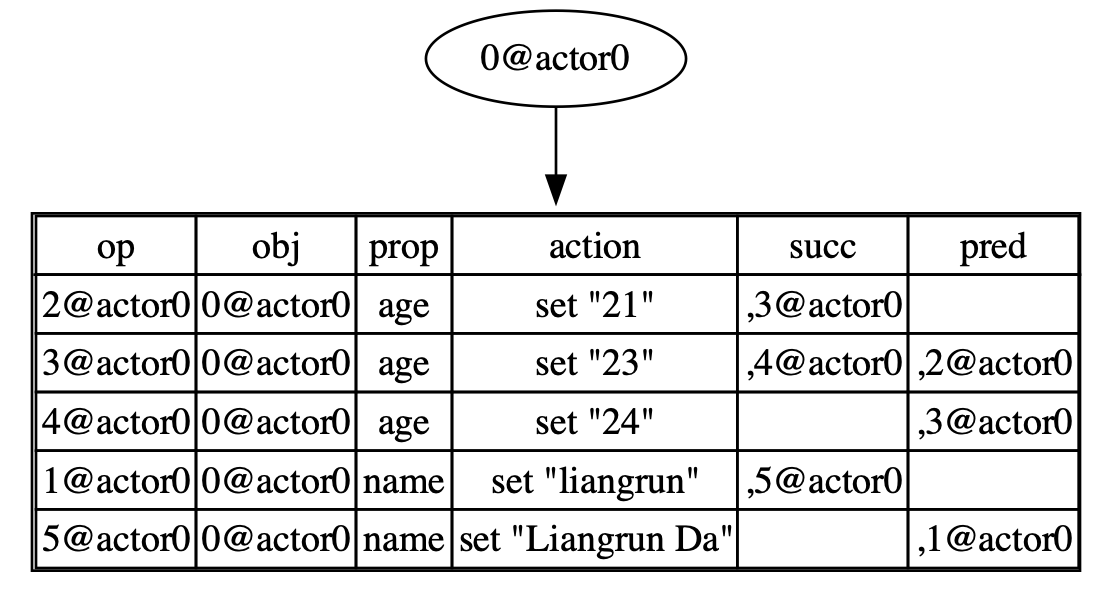
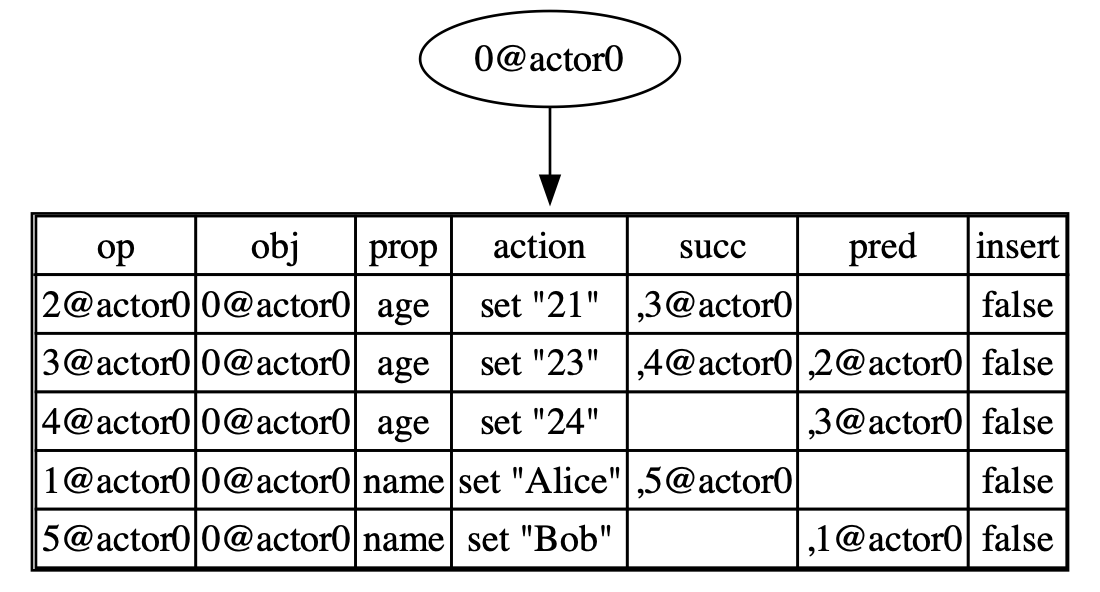
fix known issues on internal documents

diff --git a/docs/how-it-works/storage.md b/docs/how-it-works/storage.md
@@ -11,12 +11,12 @@ As the number of operations increases, maintaining the Hash DAG can become cumbe
 ```rust
 let mut doc = Automerge::new();
 let mut tx = doc.transaction();
-tx.put(ROOT, "name", "liangrun")?;
+tx.put(ROOT, "name", "Alice")?;
 tx.put(ROOT, "age", "21")?;
 tx.commit();
 ```
 
-In this example, `put(root, "name", "liangrun")` and `put(root, "age", 21)` belong to the same transaction. When committing, we combine all operations to create a change. A change is the minimum unit of applying, which implies that all the operations in a change are either fully applied or not applied at all.
+In this example, `put(root, "name", "Alice")` and `put(root, "age", 21)` belong to the same transaction. When committing, we combine all operations to create a change. A change is the minimum unit of applying, which implies that all the operations in a change are either fully applied or not applied at all.
 
 By doing so, we can manage the dependencies between changes rather than dependencies between operations. In Automerge, we use a `struct ChangeGraph` to maintain this Hash DAG:
 
@@ -41,8 +41,7 @@ Before applying change D, it is necessary to ensure that changes B and C have al
 
 Moreover, using changes not only avoids the need to maintain a large number of dependencies but also enables us to compress operations efficiently. These operations can be viewed as a table, where each operation represents a row in the table. By utilizing columnar encoding, we can encode this table and greatly reduce the space required to store it.
 
-Moving forward, we will explore the process of encoding these operations into a compact format.
-
+Moving forward, we will explore the process of encoding these operations into a compact format. Before proceeding, you have the option to familiarize yourself with the [specification of Automerge binary encoding](https://automerge.org/docs/how-it-works/binary-format/). However, it is also possible to skip the specification for now, as we will provide essential information on encoding a basic change in the following sections. In case you encounter any difficulties, you can refer back to the specification to resolve them.
 
 
 ## Change encoding
@@ -210,7 +209,7 @@ We use an example to illustrate how a change is encoded. Suppose we have the fol
 ```rust
 let mut doc = Automerge::new();
 let mut tx = doc.transaction();
-tx.put(ROOT, "name", "Liangrun")?;
+tx.put(ROOT, "name", "Alice")?;
 tx.put(ROOT, "age", 21)?;
 tx.commit();
 ```
@@ -219,25 +218,26 @@ It will be encoded to the byte sequence like this:
 
 ```
[2 lines of base64/hex data omitted]
 ```
 
 We can deconstruct it into different parts:
 
 ```c
 0x856f4a83 // magic
-0x264ba506 // checksum
+0xfc117446 // checksum
 0x01 // chuck type
-0x40 // chunk length
+0x3c // chunk length
 0x00 // dependencies
 0x10 // actor length
-0x03ebab6d29df47f39c5ea7d4cd9d6e03 //actor 
+0xba92a37960334606aa47606579716f20 //actor 
 0x01 // sequence number
 0x01 // start op
 0x00 // time
 0x00 // message length
 0x00 // other actors
-0x06150a34014202560457097002 // operation column metadata
-0x7e046e616d65036167650202017e8601144c69616e6772756e150200 // operation columns
+0x06150a34014202560357067002 // operation column metadata
+0x7e046e616d65036167650202017e5614416c696365150200 // operation columns
 ```
 
 #### Change metadata
@@ -251,7 +251,7 @@ The magic is defined as `[0x85, 0x6f, 0x4a, 0x83]`.
 The checksum is calculated by computing the SHA256 of all subsequent parts and taking the first 4 bytes.
 
 ```
-SHA256(0140001003ebab6d29df47f39c5ea7d4cd9d6e03010100000006150a340142025604570970027e046e616d65036167650202017e8601144c69616e6772756e150200) = 264ba506493afaa055db12eb14f78d77ff7d939e0dc621e330d75b91e9fef05f
+SHA256(013c0010ba92a37960334606aa47606579716f20010100000006150a340142025603570670027e046e616d65036167650202017e5614416c696365150200) = fc117446c2701317ab462d610d17981fc12ac4cae6e242515d401db831a6e6d4
 ```
 
 - chunk type
@@ -260,7 +260,7 @@ The chunk type of a change is always equal to 0x01.
 
 - chunk length
 
-The chunk length indicates how many bytes follow and is of type uLEB. In this case, `0x40` is equal to `0b01000000`, so the length of the following bytes is `0b100 0000`, which is 64 bytes.
+The chunk length indicates how many bytes follow and is of type uLEB. In this case, `0x3c` is equal to `0b00111100`, so the length of the following bytes is `0b011 1100`, which is 60 bytes.
 
 - dependencies
 
@@ -272,7 +272,7 @@ This is in uLEB format, which indicates the length of the actor in bytes. `0x10`
 
 - actor
 
-`03ebab6d29df47f39c5ea7d4cd9d6e03` is the actor ID.
+`0xba92a37960334606aa47606579716f20` is the actor ID.
 
 - sequence number
 
@@ -303,18 +303,18 @@ Following the uLEB `0x06` = 6 indicating the number of columns, there are 6 pair
 | 0x15 = 21, key string         | 0x0a          |
 | 0x34 = 52, insert             | 0x01          |
 | 0x42 = 66, action             | 0x02          |
-| 0x56 = 86, value metadata     | 0x04          |
-| 0x57 = 87, value              | 0x09          |
+| 0x56 = 86, value metadata     | 0x03          |
+| 0x57 = 87, value              | 0x06          |
 | 0x70 = 112, predecessor group | 0x02          |
 
-The sum of `0x0a + 0x01 + 0x02 + 0x04 + 0x09 + 0x02` is 28, so the next 28 bytes are operation columns.
+The sum of `0x0a + 0x01 + 0x02 + 0x03 + 0x06 + 0x02` is 24, so the next 24 bytes are operation columns.
 
 #### Operation columns
 
 - key string：
 
 ```
-7e046e616d6503616765
+7e046e616d650361676
 ```
 
 In Automerge, `key string` is encoded using Run Length Encoding (RLE).
@@ -352,19 +352,19 @@ RLE is used for the action column. Here, `0x02` = 2, indicating that the value i
 
 The value part is `0x01`. Repeating it twice gives us `[0x01, 0x01]`.
 
-According to the Automerge specification[<sup>3</sup>](#refer-anchor-3), `0x01` as the action value means "set". Therefore, the action column is `[set, set]`.
+According to the Automerge specification, `0x01` as the action value means "set". Therefore, the action column is `[set, set]`.
 
 
 
 - value metadata
 
 ```
-7e860114
+7e5614
 ```
 
 The value metadata is encoded using the `Value Encoding`.
 
-`0x8601 = 1000 0110 0000 0001` can be interpreted as `0b 000 0001 000 0110`, which means the first type is `0b110` (String), and the length is `0b1000 = 8 bytes`.
+`0x56 = 0101 0110` can be interpreted as `0b 101 0110`, which means the first type is `0b0110` (String), and the length is `0b101 = 5 bytes`.
 
 The following `0x14 = 0b0001 0100`,  indicates that the second type is `0b100` (Signed Integer), and the length is `0b1 = 1 byte`.
 
@@ -375,12 +375,12 @@ So the entire value metadata column can be interpreted as `[<String, 8>, <Signed
 - value
 
 ```
-4c69616e6772756e15
+416c69636515
 ```
 
-`0x4c69616e6772756e` is converted to the UTF-8 string "Liangrun". And `0x15 = 21`.
+`0x416c696365` is converted to the UTF-8 string "Alice". And `0x15 = 21`.
 
-Therefore, the value column can be interpreted as `["Liangrun", 21]`.
+Therefore, the value column can be interpreted as `["Alice", 21]`.
 
 
 
@@ -391,7 +391,6 @@ Therefore, the value column can be interpreted as `["Liangrun", 21]`.
 ```
 
 The first column of the predecessor group is encoded using RLE, which is equivalent to [0x00, 0x00] here. This means that there are no predecessors for these two operations. Therefore, the predecessor group is interpreted as `[[], []]`.
-
 
 
 ## Document encoding
@@ -428,7 +427,7 @@ We use an example to illustrate how a document is encoded. Suppose we have the f
 ```rust
 let mut doc = Automerge::new();
 let mut tx1 = doc.transaction();
-tx1.put(ROOT, "name", "Liangrun")?;
+tx1.put(ROOT, "name", "Bob")?;
 tx1.put(ROOT, "age", 21)?;
 tx1.commit();
 
@@ -442,21 +441,22 @@ It will be encoded to the byte sequence like this:
 
 ```
[2 lines of base64/hex data omitted]
 ```
 
 We can deconstruct it into different parts:
 
 ```c
 0x856f4a83 // magic
-0xe7a6f50e // checksum
+0x4afcae9c // checksum
 0x00 // chunk type
-0x9301 // chunk length
-0x011013336ec1ed354befa60b3e3f05346028 // actors
-0x012f2f0a65b40461263a496749d8bb0b0746c234cbddb092e11473861242638a0c // heads
+0x8d01 // chunk length
+0x011015cb7623f0314fc09773daafcf4138d7 // actors
+0x016cdffc539c7e02a93ab4f9762fc4466b90fc4134c6662382d067f02d9e9418bf // heads
 0x070102030213032302400343025602 // change column metadata
-0x08151121022304340142025605570d8001 // operation column metadata
-0x02020002017e020102007e00017f000207 // change column
-0x7d036167650667656e646572046e616d6503007d02017e0303017d14468601156d616c654c69616e6772756e0300 // operation columns
+0x081511210223043401420256045708800102 // operation column metadata
+0x020002017e020102007e00017f000207 // change column
+0x7d036167650667656e646572046e616d6503007d02017e0303017d144636156d616c65426f620300 // operation columns
 0x01 // heads index
 ```
 
@@ -467,7 +467,7 @@ As most of the fields are similar to change encoding, we will not explain them h
 #### change columns metadata
 
 ```
-070102030213032302400343025602
+0x070102030213032302400343025602
 ```
 
 Following the uLEB `0x07` = 7 indicating the number of columns, there are 7 pairs of <Column Specification, Column Length>:
@@ -489,7 +489,7 @@ Following the uLEB `0x07` = 7 indicating the number of columns, there are 7 pair
 #### operation columns metadata
 
 ```
-08151121022304340142025605570d8001
+0x081511210223043401420256045708800102
 ```
 
 Following the uLEB `0x08` = 8 indicating the number of columns, there are 8 pairs of <Column Specification, Column Length>:
@@ -501,18 +501,18 @@ Following the uLEB `0x08` = 8 indicating the number of columns, there are 8 pair
 | 0x23 = 35, counter            | 0x04          |
 | 0x34 = 52, insert             | 0x01          |
 | 0x42 = 66, action             | 0x02          |
-| 0x56 = 86, value metadata     | 0x05          |
-| 0x57 = 87, value              | 0x0d          |
-| 0x8000 = 128, successor group | 0x02          |
+| 0x56 = 86, value metadata     | 0x04          |
+| 0x57 = 87, value              | 0x08          |
+| 0x8001 = 128, successor group | 0x02          |
 
-0x11 + 0x02 + 0x04 + 0x01 + 0x02 + 0x05 + 0x0d + 0x02 = 46 bytes
+0x11 + 0x02 + 0x04 + 0x01 + 0x02 + 0x04 + 0x08 + 0x02 = 40 bytes
 
 
 
 #### change columns
 
 ```
-02020002017e020102007e00017f000207
+0x020002017e020102007e00017f000207
 ```
 
 - actor
@@ -523,7 +523,7 @@ Following the uLEB `0x08` = 8 indicating the number of columns, there are 8 pair
 
 The actor column uses RLE. First, the length is `0x02`, indicating that the value is repeated twice. Then, the value is `0x00`, indicating that the actor column is [0x00, 0x00].
 
-In this case, 0x00 refers to the first actor in the actors list, which is `011013336ec1ed354befa60b3e3f05346028`.
+In this case, 0x00 refers to the first actor in the actors list, which is `0x011015cb7623f0314fc09773daafcf4138d7`.
 
 - sequence number
 
@@ -574,7 +574,7 @@ Dependencies group can be interpreted as [0x00, 0x01]. As a result, the first ch
 #### operation columns
 
 ```
[2 lines of base64/hex data omitted]
 ```
 
 - key string
@@ -628,7 +628,7 @@ According to the Automerge specification, `0x01` as the action value means "set"
 - value metadata
 
 ```
-7d14468601
+7d144636
 ```
 
 `0x7d` = -3, which means there is no compression used.
@@ -637,21 +637,21 @@ Next is the value part, which consists of several 64-bit uLEBs:
 
 1. `14` = 0001 0100, which means type = 0b100 (Signed integer), length = 0b1 = 1 byte.
 2. `46` = 0100 0110, which means type = 0b110 (String), length = 0b100 = 4 bytes.
-3. `0x8601 = 1000 0110 0000 0001`, which can be interpreted as 0b000 0001 000 0110, which means type = 0b110 (String), length = 0b1000 = 8 bytes.
+3. `36` = 0011 0110, which means type = 0b110 (String), length = 0b11 = 3 bytes.
 
-Therefore, the entire value metadata column can be interpreted as [<Signed Integer, 1>, <String, 4>, <String, 8>].
+Therefore, the entire value metadata column can be interpreted as [<Signed Integer, 1>, <String, 4>, <String, 3>].
 
 - value
 
 ```
-156d616c654c69616e6772756e
+156d616c65426f62
 ```
 
 1. Signed Integer, `0x15` = 21
 2. String, `0x6d616c65` = "male"
-3. String, `0x4c69616e6772756e` = "Liangrun"
+3. String, `0x426f62` = "Bob"
 
-Therefore, the entire value column can be interpreted as [21, "male", "Liangrun"].
+Therefore, the entire value column can be interpreted as [21, "male", "Bob"].
 
 - successor group
 
@@ -670,6 +670,3 @@ So there is no successor for all the operations. Hence the operation group can b
 <div id="refer-anchor-2"></div>
 
 [2]. Kleppmann M, Howard H. Byzantine eventual consistency and the fundamental limits of peer-to-peer databases[J]. arXiv preprint arXiv:2012.00472, 2020.
-<div id="refer-anchor-3"></div>
-
-[3]. A. J. Alex Good, Binary document format, https://automerge.org/automerge-binary-format-spec/.

diff --git a/docs/how-it-works/runtime.md b/docs/how-it-works/runtime.md
@@ -1,14 +1,5 @@
 # Runtime
 
-## Overview
-
-The data model of Automerge is a JSON document consisting of nested Map and List objects. The APIs that Automerge supports is a superset of plain JSON object in Javascript. Before reading this document, we strongly recommend that you read the tutorial of Automerge to get farmiliar with it on a high level abstraction [<sup>1</sup>](#refer-anchor-1). In this document, we will introduce the internals of Automerge that illustrates how Automerge stores the data and achieves eventual consistency.
-
-Automerge's architecture is illustrated in the diagram below. This document will concentrate on the OpSet part, which serves as the runtime for Automerge and handles the tasks of creating, retrieving, updating, and deleting objects of JSON documents. In the subsequent document, we will delve into the columnar encoding of operations.
-<img 
-    src={require("/img/internal/arch.png").default} alt="Automerge Architecture">
-</img>
-
 ## Operation Set
 
 Operation Set (OpSet), as the name suggested, is a set of operations. It is the runtime data structure of Automerge, that enables the creation, retrieval, updating, and deletion of objects. The merging of two documents is conceptually the union of two operation sets.
@@ -96,15 +87,16 @@ Let‘s say we have a code snippet in the following:
 ```rust
 let mut doc = Automerge::new();
 let mut tx = doc.transaction();
-tx.put(ROOT, "name", "liangrun")?;
+tx.put(ROOT, "name", "Alice")?;
 tx.put(ROOT, "age", "21")?;
 tx.put(ROOT, "age", "23")?;
 tx.put(ROOT, "age", "24")?;
-tx.put(ROOT, "name", "Liangrun Da")?;
+tx.put(ROOT, "name", "Bob")?;
 tx.commit();
 ```
 
 It will result in an OpTree like this:
+
 <img
 src={require("/img/internal/runtime1.png").default} width="60%">
 </img>
@@ -152,8 +144,7 @@ end_idx = 4;
 
 2. We iterate through `table[3]` to `table[4]` and append `op 5@actor0` to the `result`. Eventually, the `search` function returns `([op 5@actor0], 5)`.
 
-3. Finally, in the `get` function, we return the `action.value` of `op 5@actor0`, and as a result, we obtain the value of `root.name`, which is "Liangrun Da".
-
+3. Finally, in the `get` function, we return the `action.value` of `op 5@actor0`, and as a result, we obtain the value of `root.name`, which is "Bob".
 ### put
 
 ```c
@@ -176,7 +167,7 @@ def put(table, prop, value):
 	insert_op(local_op, last_idx);
 ```
 
-Let's consider an example of `put(root, "name", "new Liangrun Da")`:
+Let's consider an example of `put(root, "name", "Carol")`:
 
 1. Initially, we use the `search` function to search for the predecessor and index, and it returns `([op 5@actor0], 5)`.
 2. Next, a successor is added for `op 5@actor0`, which is `6@actor0`.
@@ -241,13 +232,13 @@ For example, consider the following code snippet:
 
 ```c
 contact := put_object(root, "contact", Map);
-put(contact, "email", "me@liangrunda.com");
+put(contact, "email", "alice@example.com");
 ```
 
 1. Call the `search` function, which returns `([], 3)` since no contacts exist at the moment.
 2. Generate a `make map` operation and add it to index 3 of the table.
 3. Function `put_object` returns the OpId `6@actor0`, which is the object id of the newly created map.
-4. Using object id `6@actor0`, we can access the OpTree of `contact` and insert the `put, email, set "me.liangrunda.com"` operation into it.
+4. Using object id `6@actor0`, we can access the OpTree of `contact` and insert the `put, email, set "alice@example.com"` operation into it.
 
 <img
 src={require("/img/internal/runtime4.png").default} width="100%">
@@ -262,7 +253,7 @@ Considering the following code:
 ```rust
 let mut doc1 = Automerge::new();
 let mut tx = doc1.transaction();
-tx.put(ROOT, "name", "Liangrun Da").unwrap();
+tx.put(ROOT, "name", "Alice").unwrap();
 tx.put(ROOT, "age", "21").unwrap();
 tx.put(ROOT, "age", "22").unwrap();
 tx.commit();
@@ -325,7 +316,7 @@ In this example, calling `get_all(age)` will retrieve both `99` and `100`. It be
 
 ## List
 
-Now we will add the List object to our document. Before we explain how to generate list operations, you need to understand what a Replicated Growable Array is [<sup>2</sup>](#refer-anchor-2).
+Now we will add the List object to our document. Before we explain how to generate list operations, you need to understand what a Replicated Growable Array is [<sup>1</sup>](#refer-anchor-1).
 
 We need to flatten the RGA tree into a table, just like what we did in Map. This is achieved by performing a Depth First Search (DFS) on the RGA tree. For example, for the following code snippet:
 
@@ -625,9 +616,6 @@ src={require("/img/internal/runtime15.png").default} width="60%">
 ## Reference
 <div id="refer-anchor-1"></div>
 
-[1] “Introduction: Automerge CRDT,” Automerge CRDT, https://automerge.org/docs/tutorial/introduction/
-<div id="refer-anchor-2"></div>
-
-[2] H.-G. Roh, M. Jeon, J.-S. Kim, and J. Lee, “Replicated abstract data types: Building Blocks for Collaborative Applications,” *Journal of Parallel and Distributed Computing*, vol. 71, no. 3, pp. 354–368, 2011. doi:10.1016/j.jpdc.2010.12.006 
+[1] H.-G. Roh, M. Jeon, J.-S. Kim, and J. Lee, “Replicated abstract data types: Building Blocks for Collaborative Applications,” *Journal of Parallel and Distributed Computing*, vol. 71, no. 3, pp. 354–368, 2011. doi:10.1016/j.jpdc.2010.12.006 
 
 
